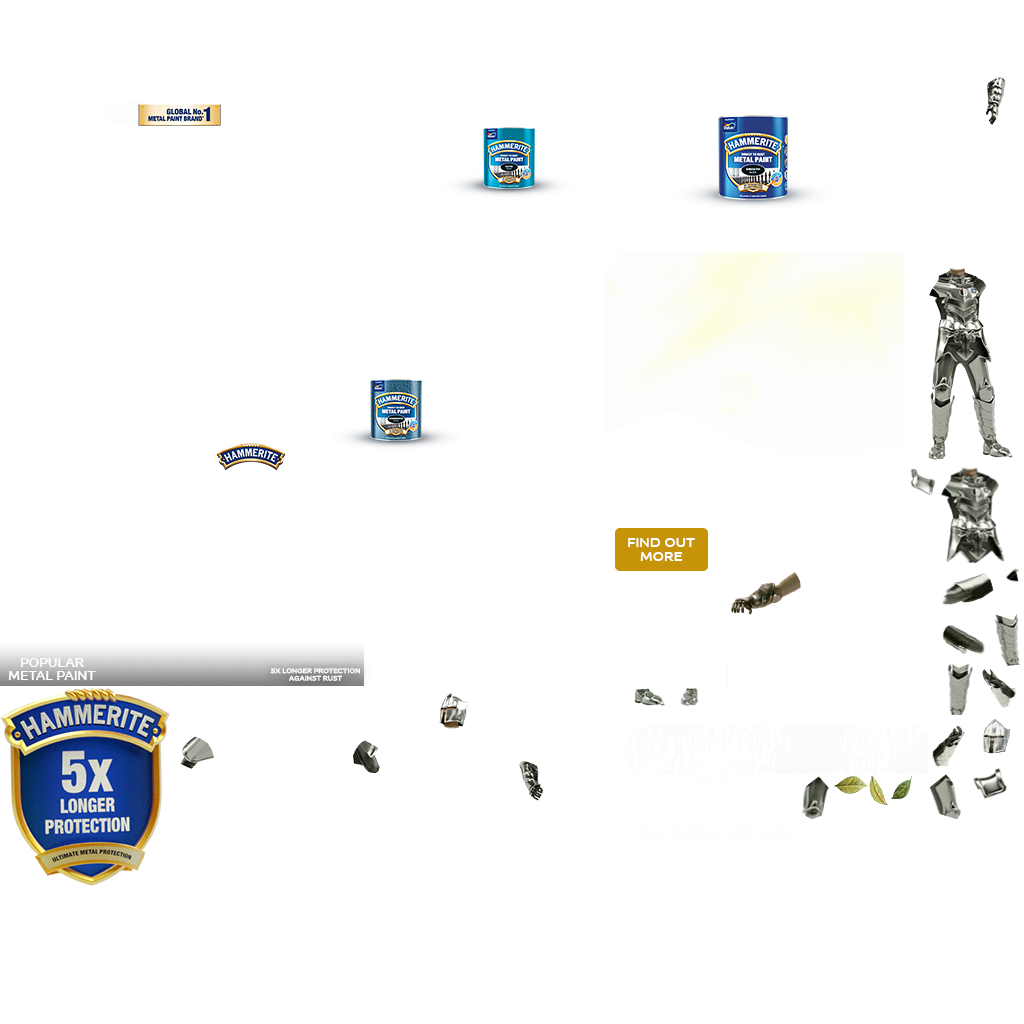
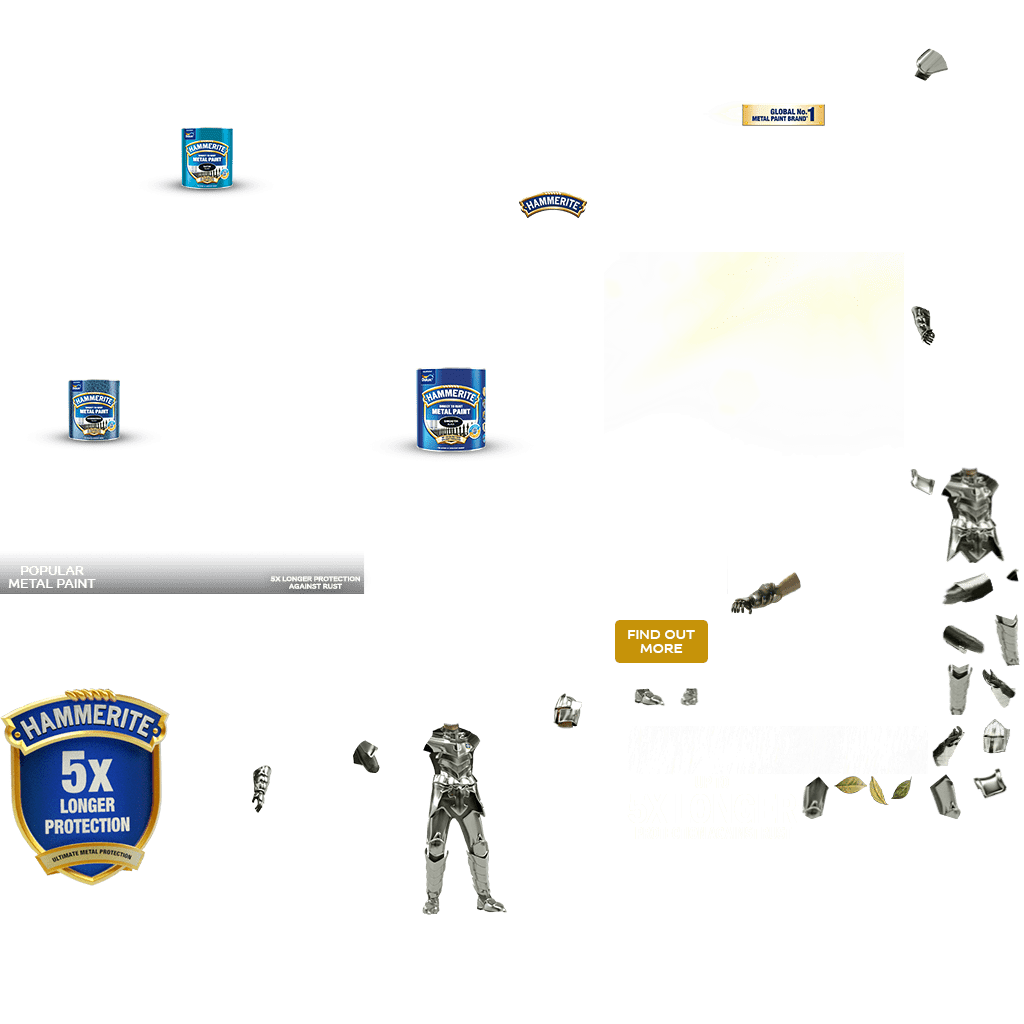
.
.

diff --git a/5xLP/728x90/181208-5xlp-728x90.js b/5xLP/728x90/181208-5xlp-728x90.js
@@ -3,7 +3,7 @@
 var p; // shortcut to reference prototypes
 var lib={};var ss={};var img={};
 lib.ssMetadata = [
-		{name:"181208_5xlp_728x90_atlas_P_", frames: [[940,565,55,46],[930,774,32,45],[801,776,31,43],[970,764,42,39],[906,466,31,34],[940,466,66,97],[997,565,27,23],[940,613,47,46],[930,726,38,46],[978,668,40,46],[978,716,39,46],[672,688,36,22],[628,688,42,24],[989,613,35,53],[940,661,36,54],[0,596,728,90],[0,504,728,90],[869,776,20,29],[834,776,33,18],[891,776,21,23],[0,0,300,250],[0,252,300,250],[302,252,300,250],[604,0,300,250],[302,0,300,250],[628,726,300,48],[0,688,170,198],[604,252,300,250],[628,776,171,63],[172,688,112,231],[514,688,112,231],[286,688,112,231],[906,0,112,231],[906,233,112,231],[400,688,112,231],[730,504,208,220]]},
+		{name:"181208_5xlp_728x90_atlas_P_", frames: [[940,565,55,46],[930,774,32,45],[801,776,31,43],[970,764,42,39],[906,466,31,34],[940,466,66,97],[997,565,27,23],[940,613,47,46],[930,726,38,46],[978,668,40,46],[978,716,39,46],[672,688,36,22],[628,688,42,24],[989,613,35,53],[940,661,36,54],[0,504,728,90],[0,596,728,90],[869,776,20,29],[834,776,33,18],[891,776,21,23],[604,0,300,250],[302,0,300,250],[0,252,300,250],[302,252,300,250],[0,0,300,250],[628,726,300,48],[0,688,170,198],[604,252,300,250],[628,776,171,63],[906,0,112,231],[906,233,112,231],[286,688,112,231],[172,688,112,231],[400,688,112,231],[514,688,112,231],[730,504,208,220]]},
 		{name:"181208_5xlp_728x90_atlas_NP_", frames: [[0,0,910,90]]}
 ];
 
@@ -691,6 +691,20 @@ p.nominalBounds = new cjs.Rectangle(-1,7,1107.9,109.6);
 	this.timeline.addTween(cjs.Tween.get(this.instance).wait(1));
 
 }).prototype = getMCSymbolPrototype(lib.Symbol1, new cjs.Rectangle(0,0,300,250), null);
+
+
+(lib.Symbol57_1 = function(mode,startPosition,loop) {
+	this.initialize(mode,startPosition,loop,{});
+
+	// Layer_1
+	this.shape = new cjs.Shape();
+	this.shape.graphics.f("#003660").s().p("EgXbAu4MAAAhdvMAu3AAAMAAABdvg");
+	this.shape.setTransform(363.9999,44.9982,2.4267,0.15);
+
+	this.timeline.addTween(cjs.Tween.get(this.shape).wait(1));
+
+}).prototype = p = new cjs.MovieClip();
+p.nominalBounds = new cjs.Rectangle(0,0,728,90);
 
 
 (lib.Symbol46_1 = function(mode,startPosition,loop) {
@@ -1506,6 +1520,29 @@ p.nominalBounds = new cjs.Rectangle(-1037.2,-662.6,1994.1,662);
 
 	this.timeline.addTween(cjs.Tween.get(this.instance).to({alpha:0},3).to({_off:true},1).wait(407).to({_off:false},0).to({alpha:1},7).wait(1));
 
+	// BOTTOM
+	this.instance_1 = new lib.Symbol71("synched",0,false);
+	this.instance_1.parent = this;
+	this.instance_1.setTransform(579.85,207.45,0.815,0.815,0,0,0,50.1,51);
+
+	this.timeline.addTween(cjs.Tween.get(this.instance_1).wait(290).to({startPosition:105},0).to({x:419.85},8,cjs.Ease.get(1)).wait(121));
+
+	// bg5
+	this.instance_2 = new lib.Symbol9();
+	this.instance_2.parent = this;
+	this.instance_2.setTransform(541.95,33.95,1,1,0,0,0,150,125);
+
+	this.timeline.addTween(cjs.Tween.get(this.instance_2).wait(290).to({x:381.95},8,cjs.Ease.get(1)).wait(121));
+
+	// Layer_1
+	this.instance_3 = new lib.Symbol57_1("synched",0);
+	this.instance_3.parent = this;
+	this.instance_3.setTransform(150,300,1,1,0,0,0,150,300);
+	this.instance_3.alpha = 0;
+	this.instance_3._off = true;
+
+	this.timeline.addTween(cjs.Tween.get(this.instance_3).wait(285).to({_off:false},0).to({alpha:1},9).wait(125));
+
 	// Layer_6 (mask)
 	var mask = new cjs.Shape();
 	mask._off = true;
@@ -1513,31 +1550,17 @@ p.nominalBounds = new cjs.Rectangle(-1037.2,-662.6,1994.1,662);
 	mask.setTransform(153.4753,48.35);
 
 	// A
-	this.instance_1 = new lib.Symbol73("synched",0,false);
-	this.instance_1.parent = this;
-	this.instance_1.setTransform(224.55,288.65,0.851,0.851,0,0,0,114.7,48.2);
+	this.instance_4 = new lib.Symbol73("synched",0,false);
+	this.instance_4.parent = this;
+	this.instance_4.setTransform(224.55,288.65,0.851,0.851,0,0,0,114.7,48.2);
 
-	var maskedShapeInstanceList = [this.instance_1];
+	var maskedShapeInstanceList = [this.instance_4];
 
 	for(var shapedInstanceItr = 0; shapedInstanceItr < maskedShapeInstanceList.length; shapedInstanceItr++) {
 		maskedShapeInstanceList[shapedInstanceItr].mask = mask;
 	}
 
-	this.timeline.addTween(cjs.Tween.get(this.instance_1).wait(419));
-
-	// BOTTOM
-	this.instance_2 = new lib.Symbol71("synched",0,false);
-	this.instance_2.parent = this;
-	this.instance_2.setTransform(579.85,207.45,0.815,0.815,0,0,0,50.1,51);
-
-	this.timeline.addTween(cjs.Tween.get(this.instance_2).wait(419));
-
-	// bg5
-	this.instance_3 = new lib.Symbol9();
-	this.instance_3.parent = this;
-	this.instance_3.setTransform(541.95,33.95,1,1,0,0,0,150,125);
-
-	this.timeline.addTween(cjs.Tween.get(this.instance_3).wait(419));
+	this.timeline.addTween(cjs.Tween.get(this.instance_4).to({_off:true},299).wait(120));
 
 	// BG0
 	this.shape = new cjs.Shape();
@@ -1547,7 +1570,7 @@ p.nominalBounds = new cjs.Rectangle(-1037.2,-662.6,1994.1,662);
 	this.timeline.addTween(cjs.Tween.get(this.shape).wait(419));
 
 }).prototype = p = new cjs.MovieClip();
-p.nominalBounds = new cjs.Rectangle(359.9,-46,376.20000000000005,205);
+p.nominalBounds = new cjs.Rectangle(221.4,-46,514.7,205);
 // library properties:
 lib.properties = {
 	id: 'D989D54A625F9644B2784B6617044FF1',
@@ -1557,8 +1580,8 @@ lib.properties = {
 	color: "#FFFFFF",
 	opacity: 1.00,
 	manifest: [
-		{src:"./181208_5xlp_728x90_atlas_P_.png?1546591882829", id:"181208_5xlp_728x90_atlas_P_"},
-		{src:"./181208_5xlp_728x90_atlas_NP_.jpg?1546591882829", id:"181208_5xlp_728x90_atlas_NP_"}
+		{src:"./181208_5xlp_728x90_atlas_P_.png", id:"181208_5xlp_728x90_atlas_P_"},
+		{src:"./181208_5xlp_728x90_atlas_NP_.jpg", id:"181208_5xlp_728x90_atlas_NP_"}
 	],
 	preloads: []
 };

diff --git a/5xLP/728x90/181208-5xlp-728x90.html b/5xLP/728x90/181208-5xlp-728x90.html
@@ -1,12 +1,4 @@
 <!DOCTYPE html>
-<!--
-	NOTES:
-	1. All tokens are represented by '$' sign in the template.
-	2. You can write your code only wherever mentioned.
-	3. All occurrences of existing tokens will be replaced by their appropriate values.
-	4. Blank lines will be removed automatically.
-	5. Remove unnecessary comments before creating your template.
--->
 <html>
 <head>
 <meta charset="UTF-8">
@@ -96,7 +88,9 @@ function handleComplete(evt,comp) {
 </head>
 <body onload="init();" style="margin:0px;">
 	<div id="animation_container" style="background-color:rgba(255, 255, 255, 1.00); width:728px; height:90px">
+		<a href="javascript:window.open(window.clickTag)">
 		<canvas id="canvas" width="728" height="90" style="position: absolute; display: block; background-color:rgba(255, 255, 255, 1.00);"></canvas>
+		</a>
 		<div id="dom_overlay_container" style="pointer-events:none; overflow:hidden; width:728px; height:90px; position: absolute; left: 0px; top: 0px; display: block;">
 		</div>
 	</div>
